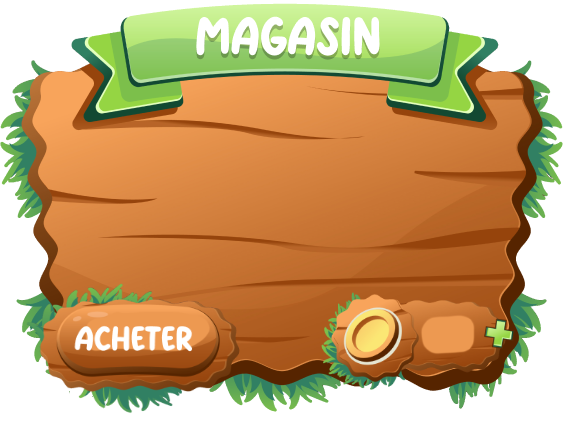
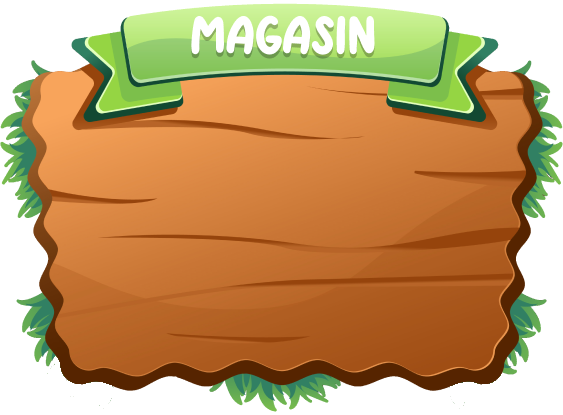
images ok - need it fix css

Changed region(s): [[0.0, 0.0289, 1.0, 1.0], [0.1812, 0.5494, 0.5133, 0.6072]]

diff --git a/app/assets/stylesheets/components/dist/_panneau_shop.css b/app/assets/stylesheets/components/dist/_panneau_shop.css
@@ -3,6 +3,9 @@
   display: flex;
   justify-content: center;
   align-items: center;
+  position: absolute;
+  right: 10%;
+  top: 25%;
 }
 
 .shop-avatar {
@@ -18,4 +21,57 @@
   position: absolute;
   display: flex;
   align-items: center;
+}
+
+.shop-bouton-img {
+  width: 222px;
+  height: 139px;
+  margin-top: 12%;
+}
+
+.shop-balance-img {
+  width: 218px;
+  height: 110px;
+  margin-top: 30%;
+}
+
+.avatar-price {
+  font-family: "Kiddosy regular";
+  font-size: 30px;
+  text-shadow: 0px 4px 0px rgba(0, 0, 0, 0.25);
+}
+
+.price-green {
+  color: greenyellow;
+}
+
+.price-red {
+  color: red;
+}
+
+.price-place {
+  width: 80px;
+  height: 40px;
+  position: absolute;
+  top: 104%;
+  right: -14%;
+  text-align: center;
+}
+
+.inventory {
+  position: absolute;
+  top: 20%;
+  left: 10%;
+  width: 500px;
+  height: 500px;
+  background-color: white;
+}
+
+.buy-btn-place {
+  width: 150px;
+  cursor: pointer;
+  height: 60px;
+  position: absolute;
+  top: -6%;
+  left: -416%;
 }

diff --git a/app/assets/stylesheets/components/dist/_balance.css b/app/assets/stylesheets/components/dist/_balance.css
@@ -1,22 +1,21 @@
-.balance-show{
+.balance-show {
   width: 200px;
   position: relative;
   height: 100px;
-
 }
 
-.balance-img{
+.balance-img {
   width: 150px;
   height: 80px;
 }
 
-.balance-place{
+.balance-place {
   position: absolute;
   right: 3%;
   top: 6%;
 }
 
-.balance-user{
+.balance-user {
   color: yellow;
   font-family: "Kiddosy regular";
   position: absolute;

diff --git a/app/assets/stylesheets/components/_panneau_shop.scss b/app/assets/stylesheets/components/_panneau_shop.scss
@@ -23,6 +23,17 @@
   display: flex;
   align-items: center;
 }
+.shop-bouton-img{
+  width: 222px;
+  height: 139px;
+  margin-top: 12%;
+}
+
+.shop-balance-img{
+  width: 218px;
+  height: 110px;
+  margin-top: 30%;
+}
 
 .avatar-price{
   font-family: "Kiddosy regular";
